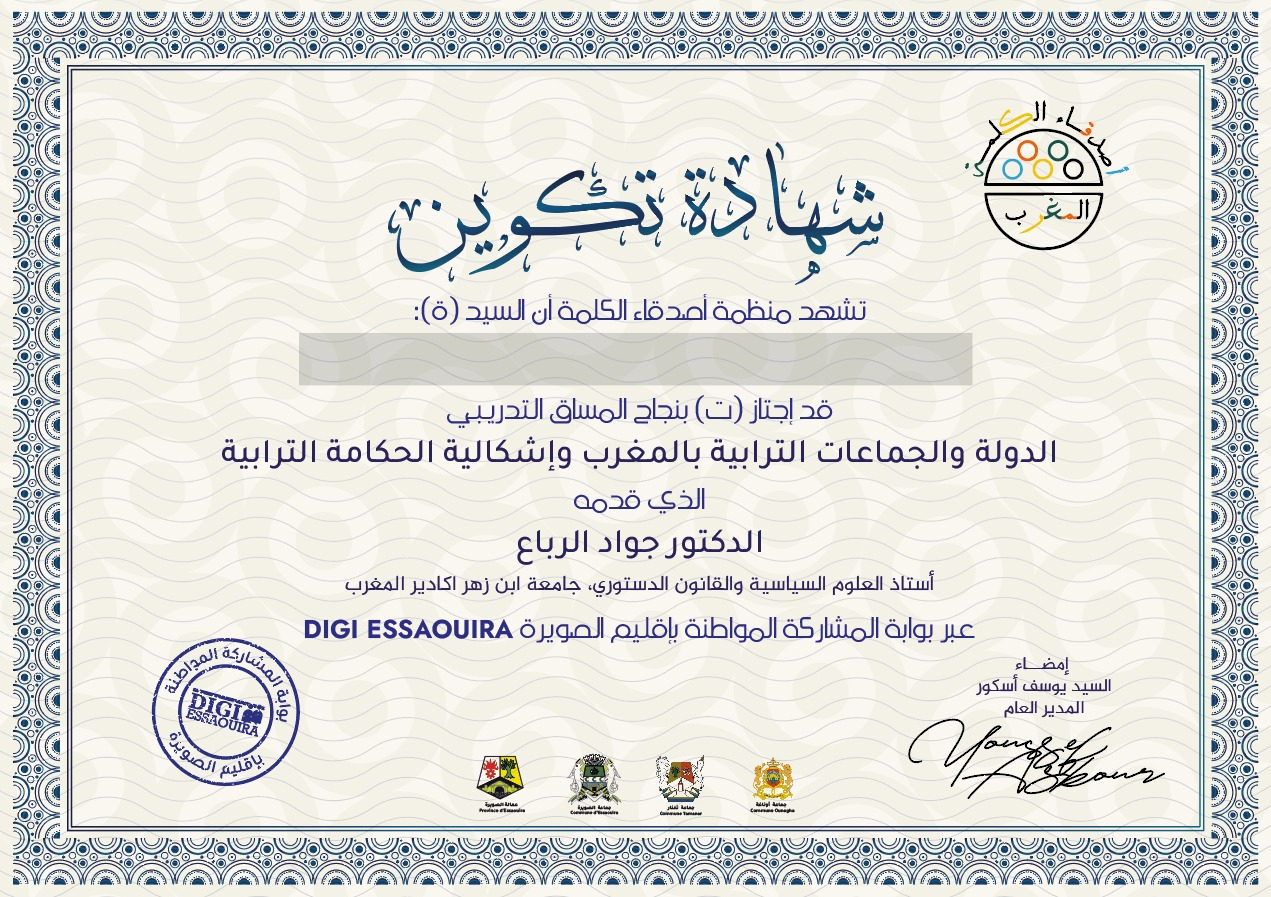
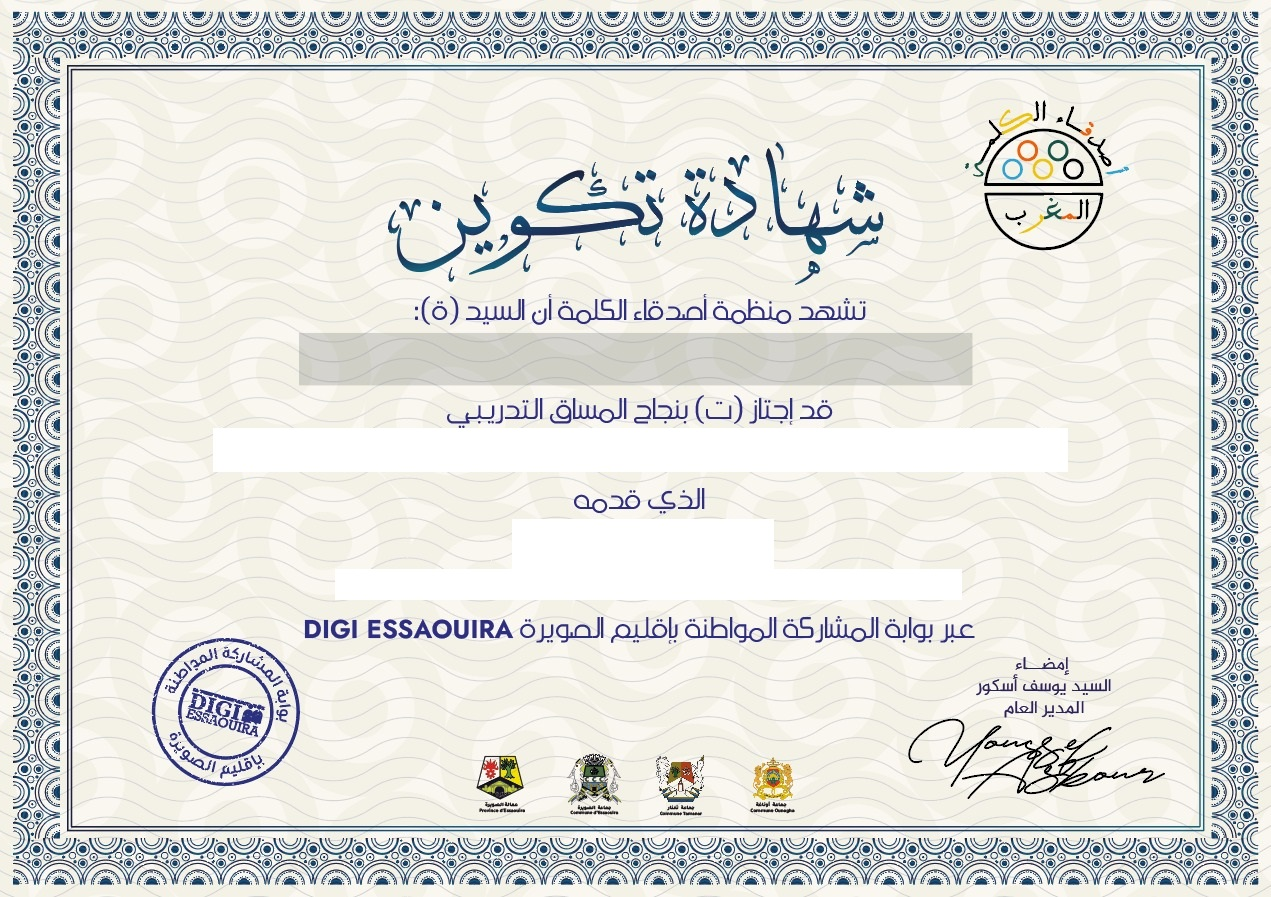
Fix certificate problem

Changed region(s): [[0.2762, 0.5619, 0.7671, 0.6867], [0.1534, 0.4682, 0.8592, 0.5307]]

diff --git a/pages/courses/[courseName]/certificate.tsx b/pages/courses/[courseName]/certificate.tsx
@@ -1,25 +1,48 @@
 import Image from "next/image";
-import MyDocument from "../../../components/certificate/index";
-import { PDFDownloadLink, PDFViewer, usePDF } from "@react-pdf/renderer";
 import { useEffect, useState } from "react";
 import { useRouter } from "next/router";
 import TextOnImage from "../../../components/certificateDownload";
 import { getCurrentUser } from "../../../components/utils";
-import { redirect } from "next/dist/server/api-utils";
-import { routes } from "../../../constants/routes";
+import { GetServerSidePropsContext, InferGetServerSidePropsType } from "next";
+import { initializeApollo } from "../../../apolloClient";
+import { IGetCourseByIdData, IGetCourseByIdVariables } from "../../../graphql/courses/types";
+import { GET_COURSE_BY_ID } from "../../../graphql/courses/queries";
+import { ParsedUrlQuery } from "querystring";
 
-export default function Quiz() {
+interface IQuery extends ParsedUrlQuery {
+  courseId: string;
+}
+
+export async function getServerSideProps({ query }: GetServerSidePropsContext) {
+  const { courseId: id } = query as IQuery;
+  const client = initializeApollo();
+  const {
+    data: { course },
+  } = await client.query<IGetCourseByIdData, IGetCourseByIdVariables>({
+    query: GET_COURSE_BY_ID,
+    variables: { args: { id } },
+  });
+
+  return { props: { course } };
+}
+
+
+export default function Quiz({
+  course: { description, sections, instructor, video, name, id },
+}: InferGetServerSidePropsType<typeof getServerSideProps>): JSX.Element{
   const [isClient, setIsClient] = useState(false);
   const router = useRouter();
 
 
   
   const { courseName } = useRouter().query;
+  const query = useRouter().query;
   const currentUser = getCurrentUser();
   
   useEffect(() => {
     if(!currentUser) 
       router.push("/signIn");
+    
 
     setIsClient(true);
   }, []);
@@ -27,7 +50,7 @@ export default function Quiz() {
 
 
   return (
-    <div className="mt-40 py-10 px-5 w-full flex flex-col items-center">
+    <div className="mt-40 py-10 px-5 h-[65vh] w-full flex flex-col items-center">
       <div className="text-center text-2xl">
         <h1>لقد أكملت دورة </h1>
         <h1 className="font-bold">  {courseName} </h1>
@@ -40,7 +63,7 @@ export default function Quiz() {
         objectFit="cover"
       />
 
-    <TextOnImage text={currentUser?.user_userName} userName={currentUser?.user_userName}/>
+    <TextOnImage text={currentUser?.user_userName} userName={currentUser?.user_userName} courseName={courseName} instructor={instructor} />
     </div>
   );
 }

diff --git a/components/certificateDownload/index.tsx b/components/certificateDownload/index.tsx
@@ -1,8 +1,15 @@
 // @ts-nocheck
-import React, { useRef, useEffect } from "react";
+import React, { useRef, useEffect, useState } from "react";
 
-export default function TextOnImage  ({userName, text })  {
+export default function TextOnImage({
+  userName,
+  text,
+  courseName,
+  instructor,
+}) {
   const canvasRef = useRef(null);
+
+  const [isLoading, setIsLoading] = useState(true);
 
   useEffect(() => {
     const canvas = canvasRef.current;
@@ -10,20 +17,39 @@ export default function TextOnImage  ({userName, text })  {
 
     const img = new Image();
     img.src = "/images/certificate.jpeg";
-    img.crossOrigin= '*';
+    img.crossOrigin = "*";
+
     img.onload = () => {
       canvas.width = img.width;
       canvas.height = img.height;
       ctx.drawImage(img, 0, 0);
-      ctx.font = "40px sans-serif";
+      ctx.font = "bolder 40px sans-serif";
       ctx.fillStyle = "black";
-      ctx.fillText(text, 760, 370);
+
+      ctx.textAlign = "center";
+      ctx.fillText(userName ?? "user Test", 635, 370);
+
+      ctx.font = "bold 40px greta";
+      ctx.fillStyle = "#281e54";
+
+      ctx.fillText(courseName, 635, 470);
+
+      ctx.fillText(instructor?.firstName + instructor?.lastName, 635, 560);
+
+      ctx.font = "normal 40px greta";
+      ctx.fillText(instructor.post.name, 635, 600);
+      // ctx.fillText(text, 760, 370);
     };
+
+    setTimeout(() => {
+      setIsLoading(false);
+    }, 8000);
   }, [text]);
 
   const handleDownload = () => {
     const canvas = canvasRef.current;
     const link = document.createElement("a");
+
     link.download = `${userName}-شهادة.png`;
     link.href = canvas.toDataURL();
     link.click();
@@ -32,7 +58,20 @@ export default function TextOnImage  ({userName, text })  {
   return (
     <>
       <canvas style={{ display: "none" }} ref={canvasRef} />
-      <button onClick={handleDownload} className="bg-primary text-white rounded p-3">  تحميل الشهادة</button>
+      {isLoading ? (
+        <div
+          className="mt-3 sm:col-span-2 text-lg font-semibold
+            h-14 w-full text-white rounded-lg
+            px-6 py-3  bg-[url('/images/Ellipsis-2.1s-200px.gif')] bg-no-repeat bg-center"
+        ></div>
+      ) : (
+        <button
+          onClick={handleDownload}
+          className="bg-primary text-white rounded p-3"
+        >
+          تحميل الشهادة
+        </button>
+      )}
     </>
   );
-};
+}

diff --git a/pages/courses/[courseName]/course.tsx b/pages/courses/[courseName]/course.tsx
@@ -1,7 +1,7 @@
 import { GetServerSidePropsContext, InferGetServerSidePropsType } from "next";
 import { ParsedUrlQuery } from "querystring";
 import YouTube from "react-youtube";
-import { useState } from "react";
+import { useEffect, useState } from "react";
 
 import Link from "next/link";
 import { initializeApollo } from "../../../apolloClient";
@@ -11,6 +11,8 @@ import {
 } from "../../../graphql/courses/types";
 import { GET_COURSE_BY_ID } from "../../../graphql/courses/queries";
 import { routes } from "../../../constants/routes";
+import { getCurrentUser } from "../../../components/utils";
+import { useRouter } from "next/router";
 
 interface IQuery extends ParsedUrlQuery {
   courseId: string;
@@ -54,6 +56,15 @@ export default function Course({
   };
 
   const [hide,setHide] = useState(true);
+
+  const router = useRouter();
+
+  const currentUser = getCurrentUser();
+
+  useEffect(() => {
+    if(!currentUser) 
+      router.push("/signIn");
+  }, [])
 
   return (
     <div className="grid sm:grid-cols-4 w-full mt-32 gap-5 sm:mt-40 container mx-auto">

diff --git a/pages/courses/[courseName]/quiz.tsx b/pages/courses/[courseName]/quiz.tsx
@@ -88,7 +88,7 @@ export default function Quiz({
     if (currentQuestion === questions.length) {
       if (calculateResult(answers) >= 50) {
         // @ts-ignore
-        router.push(routes.certificate.makePath?.(courseName));
+        router.push({pathname: routes.certificate.makePath?.(courseName), query: {courseId}});
       } else {
         setToggle(false);
       }
@@ -131,7 +131,7 @@ export default function Quiz({
       </Head>
 
       {toggle ? (
-        <main className="mt-44 py-10 px-5 flex flex-col gap-y-5">
+        <main className="mt-44 py-10 px-5 flex flex-col gap-y-5 h-[60vh]">
           <div className="flex flex-col items-center">
             <div className="flex flex-col gap-1 items-center w-5/6 sm:w-1/2 [&>*]:w-full">
               <span className="text-primary text-center font-bold text-sm ">
